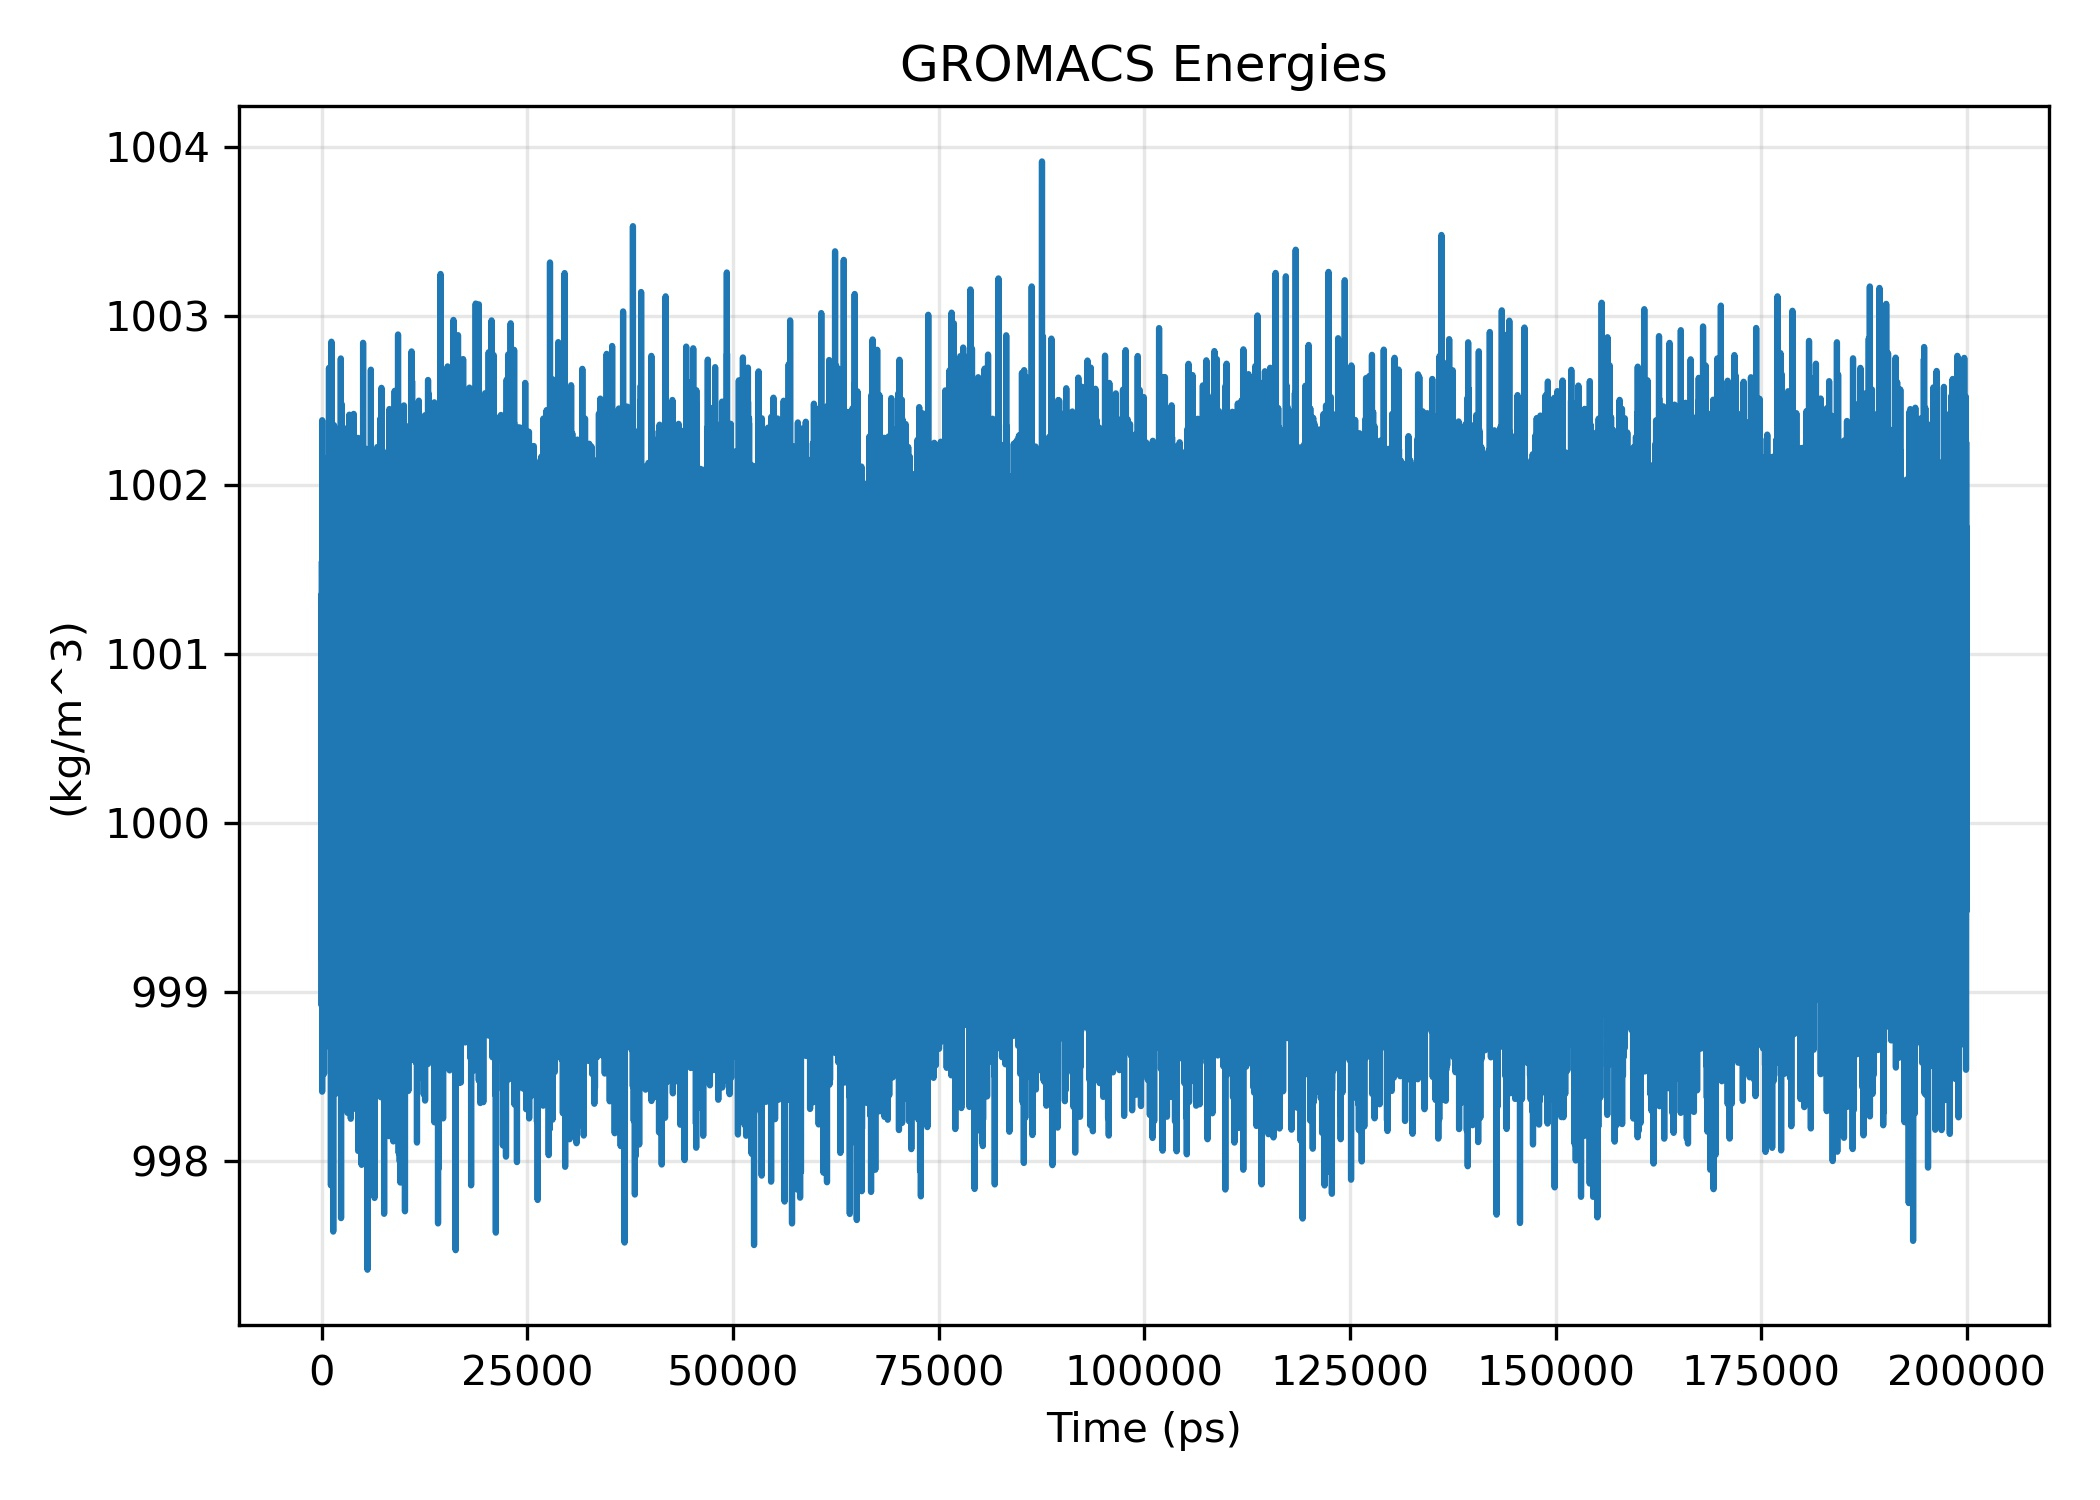
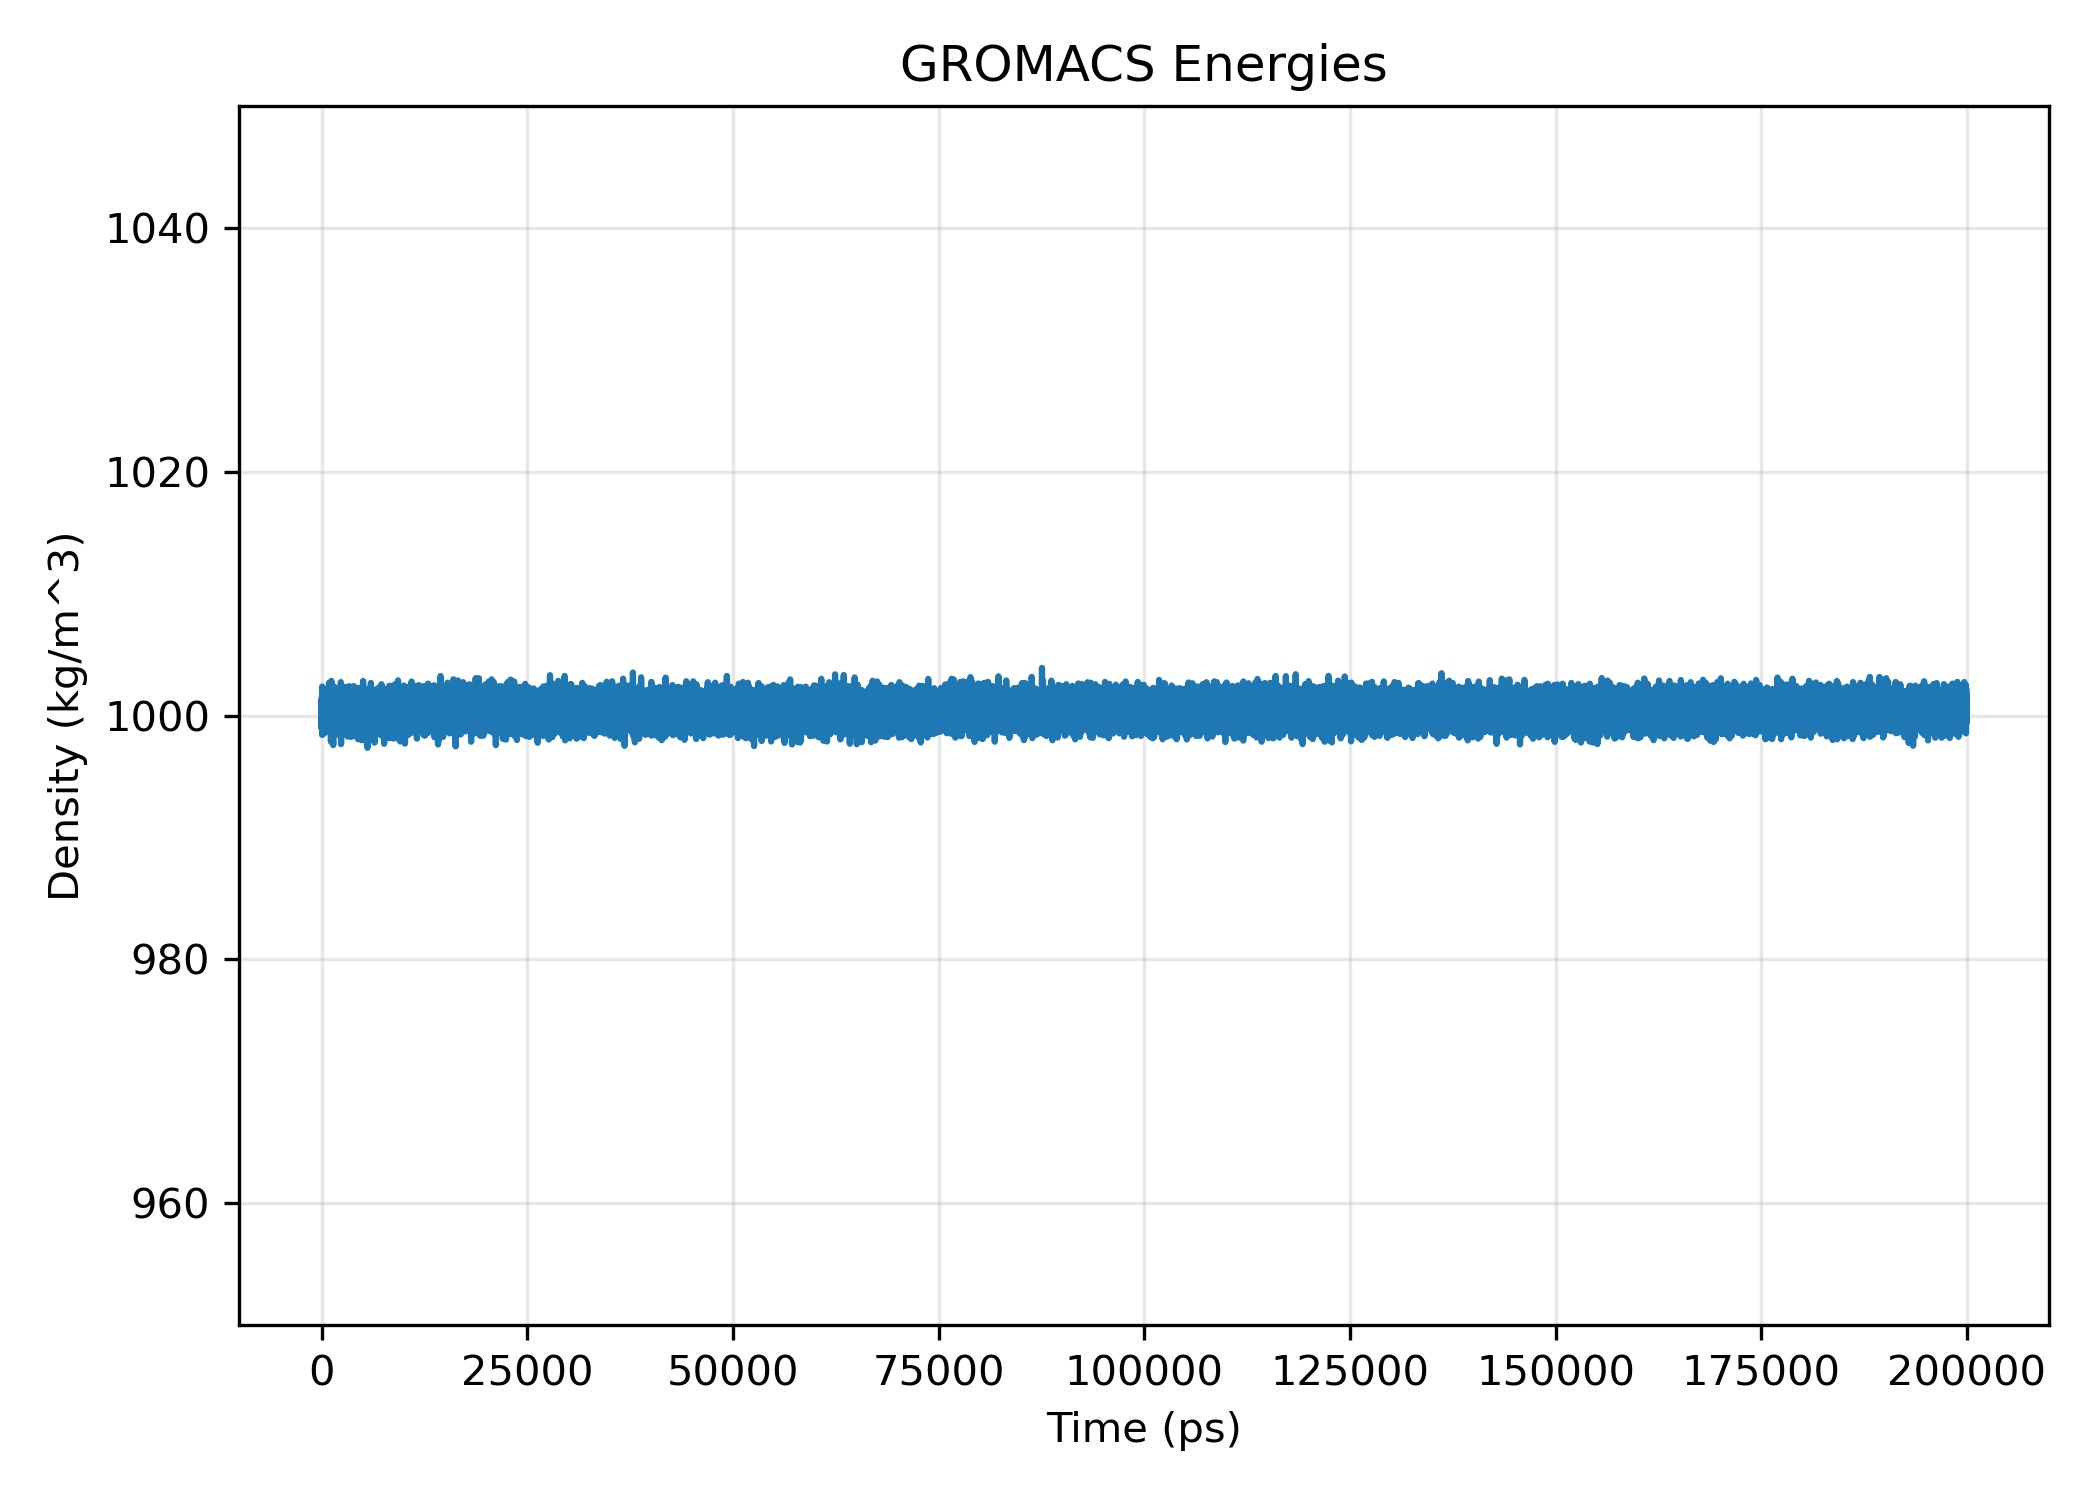
Updated all

diff --git a/data_analysis/plotting/plot_multi_xvg.py b/data_analysis/plotting/plot_multi_xvg.py
@@ -6,38 +6,30 @@ import numpy as np
 import matplotlib.pyplot as plt
 
 
-def read_xvg_fast(file):
+def read_xvg_fast(filename):
     """
     Fast reader for 2-column XVG files.
-    Extracts subtitle → title → filename as label.
+    Extracts subtitle → title → filename as legend label.
     """
     title = None
     subtitle = None
 
-    # Read metadata lines at the top of the file
-    with open(file, "r") as f:
+    with open(filename, "r") as f:
         for line in f:
             if not line.startswith("@"):
                 break
-
-            # Title
+            if "subtitle" in line:
+                m = re.search(r'"(.+)"', line)
+                if m:
+                    subtitle = m.group(1)
             if "title" in line:
                 m = re.search(r'"(.+)"', line)
                 if m:
                     title = m.group(1)
 
-            # Subtitle
-            if "subtitle" in line:
-                m = re.search(r'"(.+)"', line)
-                if m:
-                    subtitle = m.group(1)
+    label = subtitle if subtitle else (title if title else filename)
 
-    # Priority for label
-    label = subtitle if subtitle else (title if title else file)
-
-    # Fast numeric read
-    data = np.loadtxt(file, comments=("@", "#"))
-
+    data = np.loadtxt(filename, comments=("@", "#"))
     x = data[:, 0]
     y = data[:, 1]
 
@@ -45,7 +37,7 @@ def read_xvg_fast(file):
 
 
 def main():
-    parser = argparse.ArgumentParser(description="Fast multi-XVG plotter with subtitle legend labels.")
+    parser = argparse.ArgumentParser(description="Fast multi-XVG plotter with optional formatting.")
     parser.add_argument("-i", "--input", required=True,
                         help="Input glob pattern, e.g. 'rmsd_*g1.xvg'")
     parser.add_argument("-o", "--output", default="plot.png",
@@ -53,42 +45,60 @@ def main():
     parser.add_argument("--stride", type=int, default=1,
                         help="Downsample by keeping every Nth point (default: 1)")
 
+    # Optional formatting
+    parser.add_argument("--xlabel", type=str, help="Override x-axis label")
+    parser.add_argument("--ylabel", type=str, help="Override y-axis label")
+    parser.add_argument("--yscale", type=str, choices=["linear", "log"],
+                        help="Y-axis scale (linear or log)")
+    parser.add_argument("--xlim", nargs=2, type=float,
+                        help="Set x-limits: --xlim xmin xmax")
+    parser.add_argument("--ylim", nargs=2, type=float,
+                        help="Set y-limits: --ylim ymin ymax")
+
     args = parser.parse_args()
 
-    # Find matching XVG files
     files = sorted(glob.glob(args.input))
     if not files:
         print(f"No files found for pattern: {args.input}")
         return
 
-    print(f"Found {len(files)} files:")
+    print(f"Plotting {len(files)} files:")
     for f in files:
-        print("   ", f)
+        print("  ", f)
 
-    # ----- Plotting -----
+    # ----- Plot -----
     plt.figure(figsize=(10, 6), dpi=200)
 
     for f in files:
         x, y, label = read_xvg_fast(f)
 
-        # Downsampling if needed
         if args.stride > 1:
             x = x[::args.stride]
             y = y[::args.stride]
 
         plt.plot(x, y, label=label, linewidth=1.5)
 
-    plt.xlabel("x")
-    plt.ylabel("y")
+    # Labels
+    plt.xlabel(args.xlabel if args.xlabel else "x")
+    plt.ylabel(args.ylabel if args.ylabel else "y")
     plt.title("Multi-XVG Plot")
+
+    # Axis limits
+    if args.xlim:
+        plt.xlim(args.xlim)
+    if args.ylim:
+        plt.ylim(args.ylim)
+
+    # Scale
+    if args.yscale:
+        plt.yscale(args.yscale)
+
+    plt.grid(alpha=0.3)
     plt.legend()
     plt.tight_layout()
 
-    # Save figure
     plt.savefig(args.output, dpi=300)
-    print(f"Saved plot to {args.output}")
-
-    plt.show()
+    print(f"Saved figure → {args.output}")
 
 
 if __name__ == "__main__":

diff --git a/data_analysis/plotting/plot_xvg.py b/data_analysis/plotting/plot_xvg.py
@@ -23,7 +23,6 @@ def parse_xvg_metadata(filename):
                 elif "yaxis" in line and "label" in line:
                     ylabel = line.split('"')[1]
             elif not line.startswith(('#', '@')):
-                # First data line reached → stop parsing metadata
                 break
 
     return title, subtitle, xlabel, ylabel
@@ -43,7 +42,7 @@ def load_xvg_data(filename):
     return x, y
 
 
-def plot_xvg(filename):
+def plot_xvg(filename, args):
     """Read, plot, and save XVG as JPEG."""
     title, subtitle, xlabel, ylabel = parse_xvg_metadata(filename)
     x, y = load_xvg_data(filename)
@@ -51,13 +50,27 @@ def plot_xvg(filename):
     plt.figure(figsize=(7, 5))
     plt.plot(x, y, linewidth=1.5)
 
+    # Title
     plt.title(f"{title}\n{subtitle}" if subtitle else title)
-    plt.xlabel(xlabel)
-    plt.ylabel(ylabel)
+
+    # Labels (override if provided)
+    plt.xlabel(args.xlabel if args.xlabel else xlabel)
+    plt.ylabel(args.ylabel if args.ylabel else ylabel)
+
+    # Axis limits
+    if args.xlim:
+        plt.xlim(args.xlim)
+    if args.ylim:
+        plt.ylim(args.ylim)
+
+    # Y-scale (linear/log)
+    if args.yscale:
+        plt.yscale(args.yscale)
+
     plt.grid(True, alpha=0.3)
+    plt.tight_layout()
 
     outname = os.path.splitext(filename)[0] + ".jpg"
-    plt.tight_layout()
     plt.savefig(outname, dpi=300)
     plt.close()
 
@@ -65,12 +78,21 @@ def plot_xvg(filename):
 
 
 def main():
-    parser = argparse.ArgumentParser(description="Plot XVG files as JPEG")
-    parser.add_argument(
-        "-i", "--input", required=True, 
-        help="Input XVG glob pattern, e.g. 'rmsd*.xvg'"
-    )
+    parser = argparse.ArgumentParser(description="Plot XVG files as JPEG with optional formatting.")
+    parser.add_argument("-i", "--input", required=True,
+                        help="Input XVG glob pattern, e.g. 'rmsd*.xvg'")
     
+    parser.add_argument("--xlim", nargs=2, type=float,
+                        help="Set x-axis limits: --xlim xmin xmax")
+    parser.add_argument("--ylim", nargs=2, type=float,
+                        help="Set y-axis limits: --ylim ymin ymax")
+    parser.add_argument("--xlabel", type=str,
+                        help="Override x-axis label")
+    parser.add_argument("--ylabel", type=str,
+                        help="Override y-axis label")
+    parser.add_argument("--yscale", type=str, choices=["linear", "log"],
+                        help="Set y-axis scale (linear or log)")
+
     args = parser.parse_args()
     files = sorted(glob.glob(args.input))
 
@@ -79,7 +101,7 @@ def main():
         return
 
     for f in files:
-        plot_xvg(f)
+        plot_xvg(f, args)
 
 
 if __name__ == "__main__":
